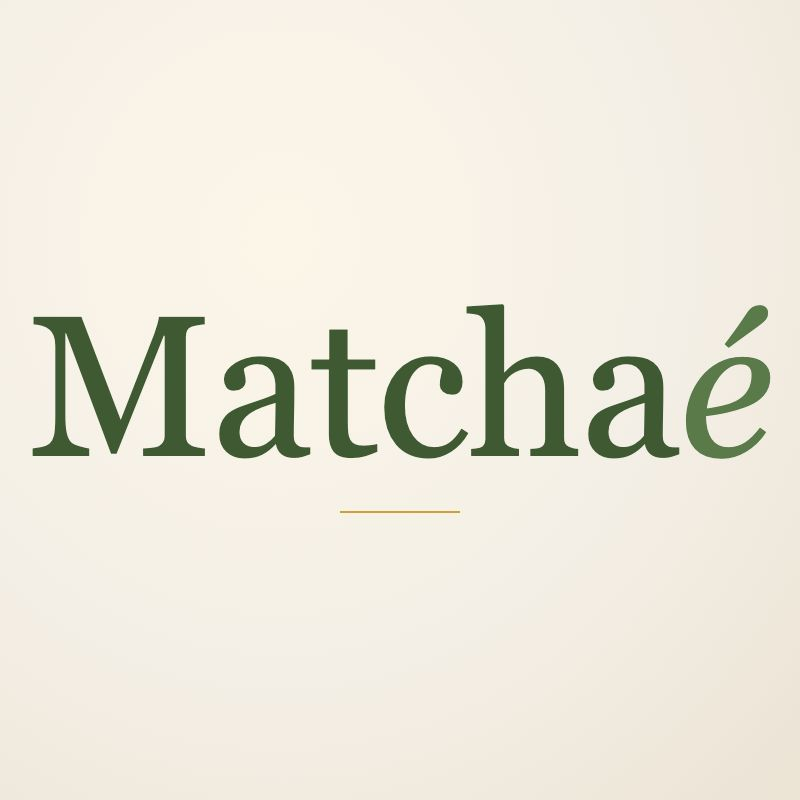
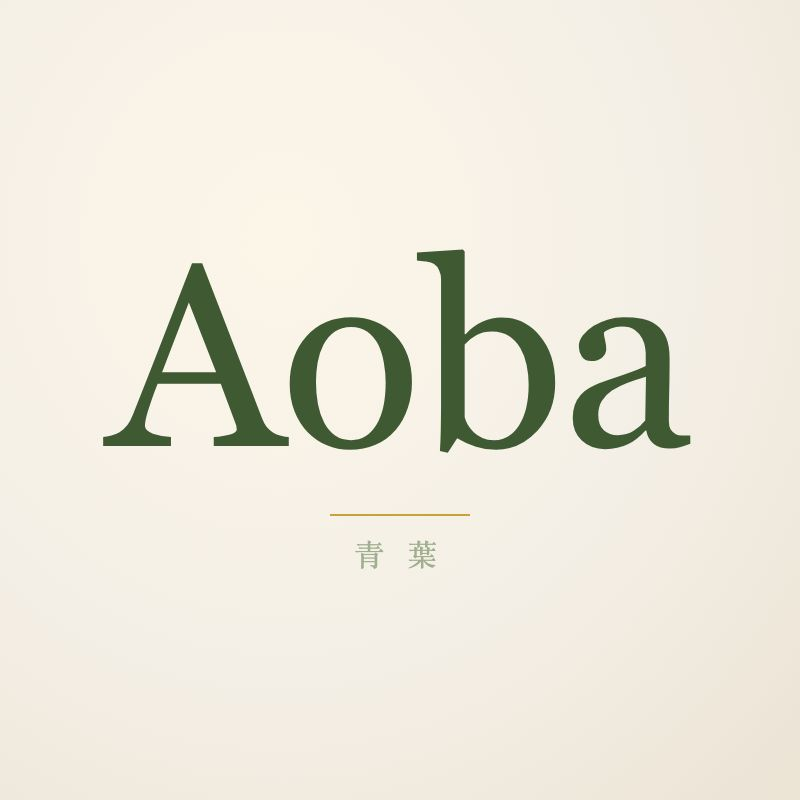
Rebrand Matchaé → Aoba (青葉, 'green leaf'): cleaner for Polish/German keyboards, Japanese authenticity fits matcha-spread positioning better than French elegance

Changed region(s): [[0.0312, 0.3125, 0.9688, 0.5938], [0.4062, 0.625, 0.5938, 0.7188]]

diff --git a/index.html b/index.html
@@ -3,9 +3,9 @@
 <head>
 <meta charset="utf-8">
 <meta name="viewport" content="width=device-width,initial-scale=1">
-<title>Matchaé — white chocolate, born from the leaf</title>
-<meta name="description" content="Matchaé is an organic matcha spread made with cocoa butter, raw honey, and ceremonial-grade Uji matcha. No palm oil. No refined sugar. No bitterness.">
-<meta property="og:title" content="Matchaé — white chocolate, born from the leaf">
+<title>Aoba — the green leaf, made spread</title>
+<meta name="description" content="Aoba is an organic matcha spread made with cocoa butter, raw honey, and ceremonial-grade Uji matcha. No palm oil. No refined sugar. No bitterness.">
+<meta property="og:title" content="Aoba — the green leaf, made spread">
 <meta property="og:description" content="An organic matcha spread that tastes like white chocolate. Cocoa butter, raw honey, ceremonial Uji matcha. No palm oil, no refined sugar, no bitterness.">
 <meta property="og:type" content="website">
 <meta property="og:image" content="img/hero-jar.jpg">
@@ -19,7 +19,7 @@
 <body>
 
 <header class="nav">
-  <a class="brand" href="/">Matcha<span class="accent">é</span></a>
+  <a class="brand" href="/">Aoba</a>
   <nav>
     <a href="#story">Story</a>
     <a href="#ingredients">Ingredients</a>
@@ -30,13 +30,13 @@
 <section class="hero">
   <div class="hero-text">
     <p class="eyebrow">— A spread, slowly made.</p>
-    <h1>White chocolate,<br><em>born from the leaf.</em></h1>
-    <p class="lede">Matchaé is an organic matcha spread of cocoa butter, raw honey, and ceremonial-grade Uji matcha. No palm oil. No refined sugar. No bitterness — only the soft green of the first harvest.</p>
+    <h1>The green leaf,<br><em>made spread.</em></h1>
+    <p class="lede">Aoba (青葉, "green leaf") is an organic matcha spread of cocoa butter, raw honey, and ceremonial-grade Uji matcha. No palm oil. No refined sugar. No bitterness — only the soft green of the first harvest.</p>
     <a class="cta" href="#notify">Notify me when it ships →</a>
     <p class="stockline">First batch — currently sold out.</p>
   </div>
   <div class="hero-image">
-    <img src="img/hero-jar.jpg" alt="An open jar of Matchaé matcha spread, soft green, on a cream cloth.">
+    <img src="img/hero-jar.jpg" alt="An open jar of Aoba matcha spread, soft green, on a cream cloth.">
   </div>
 </section>
 
@@ -44,7 +44,7 @@
   <div class="story-inner">
     <p class="eyebrow centered">— The idea</p>
     <h2>We wanted a spread that<br>tasted like the matcha we drink.</h2>
-    <p>Most green-coloured spreads on the shelf are white chocolate, palm oil, and a pinch of culinary matcha for the colour. We make ours the opposite way around: ceremonial-grade matcha first, then just enough cocoa butter and raw honey to carry it. No palm oil. No refined sugar. No additives.</p>
+    <p>Most green-coloured spreads on the shelf are white chocolate, palm oil, and a pinch of culinary matcha for the colour. We make ours the opposite way around: ceremonial-grade matcha first, then just enough cocoa butter and raw honey to carry it. No palm oil. No refined sugar. No additives. We called it Aoba — the Japanese word for the green leaf, because that's what each jar is built around.</p>
   </div>
 </section>
 
@@ -93,10 +93,10 @@
     <p class="notify-lede">We're keeping the first runs small on purpose — each jar is finished by hand in a small atelier. Leave your email and we'll write you the moment the next batch is ready. One email. No newsletter spam.</p>
 
     <form id="notify-form" action="https://formsubmit.co/[email redacted]" method="POST" class="notify-form">
-      <input type="hidden" name="_subject" value="Matchaé — new stock notification signup">
+      <input type="hidden" name="_subject" value="Aoba — new stock notification signup">
       <input type="hidden" name="_template" value="table">
       <input type="hidden" name="_captcha" value="false">
-      <input type="hidden" name="_next" value="https://www.cochoy.fr/matchae/thanks.html">
+      <input type="hidden" name="_next" value="https://www.cochoy.fr/aoba/thanks.html">
       <input type="hidden" name="source" value="landing">
       <label for="email" class="sr-only">Email address</label>
       <input id="email" name="email" type="email" required placeholder="[email redacted]" autocomplete="email">
@@ -109,14 +109,14 @@
 <footer>
   <div class="footer-inner">
     <div>
-      <p class="brand">Matcha<span class="accent">é</span></p>
-      <p class="tag">White chocolate, born from the leaf.</p>
+      <p class="brand">Aoba</p>
+      <p class="tag">The green leaf, made spread.</p>
     </div>
     <div class="links">
-      <a href="https://instagram.com/matchae.spread" rel="noopener" target="_blank">Instagram</a>
-      <a href="mailto:[email redacted]">[email redacted]</a>
+      <a href="https://instagram.com/aoba.spread" rel="noopener" target="_blank">Instagram</a>
+      <a href="mailto:[email redacted]">[email redacted]</a>
     </div>
-    <p class="copy">© 2026 Matchaé. Made with care, in small batches.</p>
+    <p class="copy">© 2026 Aoba. Made with care, in small batches.</p>
   </div>
 </footer>
 

diff --git a/scripts/profile.html b/scripts/profile.html
@@ -10,22 +10,30 @@
   .wordmark{
     font-family:'Cormorant Garamond',Georgia,serif;
     font-weight:500;
-    font-size:200px;
+    font-size:260px;
     color:#3F5A33;
     letter-spacing:-2px;
     line-height:1;
   }
-  .accent{color:#5A7A4A;font-style:italic;}
   .underline{
-    display:block;width:120px;height:2px;background:#C9A23B;margin:24px auto 0;
+    display:block;width:140px;height:2px;background:#C9A23B;margin:28px auto 0;
+  }
+  .kanji{
+    font-family:'Cormorant Garamond',Georgia,serif;
+    color:#5A7A4A;
+    font-size:30px;
+    margin-top:16px;
+    letter-spacing:8px;
+    opacity:.55;
   }
 </style>
 </head>
 <body>
 <div class="frame">
-  <div>
-    <div class="wordmark">Matcha<span class="accent">é</span></div>
+  <div style="text-align:center">
+    <div class="wordmark">Aoba</div>
     <span class="underline"></span>
+    <div class="kanji">青&nbsp;葉</div>
   </div>
 </div>
 </body></html>

diff --git a/thanks.html b/thanks.html
@@ -3,7 +3,7 @@
 <head>
 <meta charset="utf-8">
 <meta name="viewport" content="width=device-width,initial-scale=1">
-<title>Thank you — Matchaé</title>
+<title>Thank you — Aoba</title>
 <link rel="preconnect" href="https://fonts.googleapis.com">
 <link rel="preconnect" href="https://fonts.gstatic.com" crossorigin>
 <link rel="stylesheet" href="https://fonts.googleapis.com/css2?family=Cormorant+Garamond:wght@300;400;500&family=Inter:wght@300;400;500&display=swap">
@@ -13,7 +13,7 @@
 <body>
 
 <header class="nav">
-  <a class="brand" href="/">Matcha<span class="accent">é</span></a>
+  <a class="brand" href="/">Aoba</a>
   <nav>
     <a href="/">Home</a>
   </nav>
@@ -23,7 +23,7 @@
   <div class="notify-inner">
     <p class="eyebrow centered">— Thank you</p>
     <h2>You're on the list.</h2>
-    <p class="notify-lede">We'll write to you the moment the next batch is jarred and ready to ship. One email — that's the deal. In the meantime, come say hi on <a href="https://instagram.com/matchae.spread" style="color:var(--green-deep);font-style:italic;">Instagram</a>.</p>
+    <p class="notify-lede">We'll write to you the moment the next batch is jarred and ready to ship. One email — that's the deal. In the meantime, come say hi on <a href="https://instagram.com/aoba.spread" style="color:var(--green-deep);font-style:italic;">Instagram</a>.</p>
     <p style="margin-top:2.5rem"><a class="cta" href="/">Back to the leaf</a></p>
   </div>
 </section>
@@ -31,10 +31,10 @@
 <footer>
   <div class="footer-inner">
     <div>
-      <p class="brand">Matcha<span class="accent">é</span></p>
-      <p class="tag">White chocolate, born from the leaf.</p>
+      <p class="brand">Aoba</p>
+      <p class="tag">The green leaf, made spread.</p>
     </div>
-    <p class="copy">© 2026 Matchaé.</p>
+    <p class="copy">© 2026 Aoba.</p>
   </div>
 </footer>
 

diff --git a/style.css b/style.css
@@ -18,6 +18,7 @@ a{color:var(--ink);text-decoration:none}
 /* NAV */
 .nav{display:flex;justify-content:space-between;align-items:center;padding:1.5rem 2.5rem;position:sticky;top:0;background:var(--cream);z-index:10;border-bottom:1px solid rgba(0,0,0,.04)}
 .brand{font-family:var(--serif);font-weight:500;font-size:1.7rem;letter-spacing:.5px}
+.brand{color:var(--green-deep)}
 .brand .accent{color:var(--green);font-style:italic}
 .nav nav a{margin-left:1.8rem;font-size:.92rem;font-weight:400;color:var(--ink);opacity:.78}
 .nav nav a:hover{opacity:1;color:var(--green-deep)}

diff --git a/scripts/setup_ig_profile.py b/scripts/setup_ig_profile.py
@@ -1,8 +1,8 @@
 #!/opt/homebrew/opt/python@3.11/bin/python3.11
-"""Set the Matchaé Instagram profile bio, link, and avatar.
+"""Set the Aoba Instagram profile bio, link, and avatar.
 
 Run once after the Instagram account is created and you're logged in to the
-Matchaé Chrome (CDP port :9340).
+Aoba Chrome (CDP port :9340).
 
   ./scripts/setup_ig_profile.py
 """

diff --git a/content/captions-week2.md b/content/captions-week2.md
@@ -1,4 +1,4 @@
-# Matchaé — Instagram captions days 8–14
+# Aoba — Instagram captions days 8–14
 
 Same format as week 1, same theory rotation, same voice. Hashtags are 8–15 per post — one or two big-volume tags carrying the rest of mid-tail ones so we aren't drowning in over-competed pools.
 
@@ -9,7 +9,7 @@ Same format as week 1, same theory rotation, same voice. Hashtags are 8–15 per
 **Caption:**
 A pre-workout snack that isn't an ingredient label.
 
-Greek yogurt + a spoonful of Matchaé + a sliced banana.
+Greek yogurt + a spoonful of Aoba + a sliced banana.
 
 Real fat (cocoa butter). Real protein (yogurt). Real sugar (raw honey + banana). The matcha brings L-theanine, which pairs with caffeine the way a guitar pairs with a tuning peg — gives you focus without the jitter.
 
@@ -24,14 +24,14 @@ Link in bio — next batch dropping soon.
 ## Day 8 — Slot 2 (T-A) — `img/t-a-ingredients.jpg` (Reel — what's in it)
 
 **Caption (Reel):**
-What's in a jar of Matchaé:
+What's in a jar of Aoba:
 
 Cocoa butter (organic, unrefined).
 Raw wildflower honey (single-origin).
 Ceremonial Uji matcha (first harvest).
 Sea salt (a pinch).
 
-What's not in a jar of Matchaé:
+What's not in a jar of Aoba:
 Palm oil. Refined sugar. Milk powder. Sunflower oil. Soy lecithin. "Natural flavour." Emulsifiers. Stabilisers.
 
 That's the whole comparison.
@@ -58,7 +58,7 @@ Same Uji farm, same first-harvest stone-ground powder, same shaded leaves. The w
 **Caption:**
 Swirl, don't mix.
 
-Two spoons of Matchaé folded into vanilla cheesecake batter, marbled gently with a knife before baking. You want green ribbons through the slice, not a uniform green.
+Two spoons of Aoba folded into vanilla cheesecake batter, marbled gently with a knife before baking. You want green ribbons through the slice, not a uniform green.
 
 The matcha gives you the bitterness-without-bitterness. The honey gives you the sweetness-without-sugar. The cocoa butter gives you the melt.
 
@@ -73,7 +73,7 @@ Comment "swirl" if you want the full recipe in DMs.
 **Caption:**
 The after-school snack we keep coming back to:
 
-Two cracker halves. A thick layer of Matchaé in between. A few sliced strawberries on top of one half. A glass of cold whole milk.
+Two cracker halves. A thick layer of Aoba in between. A few sliced strawberries on top of one half. A glass of cold whole milk.
 
 Three ingredients on the plate that a kid can name. The fourth is the parent who didn't have to negotiate.
 
@@ -133,7 +133,7 @@ We use it the way it was grown to be used: gently, fully, and never as a coloura
 **Caption:**
 A dipping board for the weekend.
 
-Centre: jar of Matchaé. Around it: short-bread cookies, fresh strawberries, a small bowl of toasted hazelnuts, a few slices of brioche.
+Centre: jar of Aoba. Around it: short-bread cookies, fresh strawberries, a small bowl of toasted hazelnuts, a few slices of brioche.
 
 Each thing dipped in a different way: cookies for the satisfying crunch, strawberries for the cold against the spread, hazelnuts for the texture, brioche because it's basically butter and we live for a contrast.
 
@@ -150,7 +150,7 @@ A breakfast routine that took us a while to get right:
 
 - Toast the sourdough fully (not pale).
 - Wait 30 seconds — you want it warm, not hot, otherwise the spread goes runny.
-- A generous layer of Matchaé, not a polite one.
+- A generous layer of Aoba, not a polite one.
 - A small handful of berries if you've got them.
 
 Kids ask for seconds. Parents drink their coffee in peace. Nobody negotiates.
@@ -207,9 +207,9 @@ A small reminder that even matcha has seasons, and a jar tastes the way the year
 ## Day 14 — Slot 2 (T-E) — `img/t-e-croissant.jpg` (weekend round-up)
 
 **Caption:**
-The Matchaé weekend recipe round-up — saved for Sunday morning:
+The Aoba weekend recipe round-up — saved for Sunday morning:
 
-- Croissant + Matchaé fold (Day 2)
+- Croissant + Aoba fold (Day 2)
 - Brown-butter sablé sandwich (Day 4)
 - Vanilla cheesecake swirl (Day 7 + Day 9)
 - Sunday dipping board (Day 12)

diff --git a/NEXT_STEPS.md b/NEXT_STEPS.md
@@ -1,31 +1,31 @@
-# Matchaé — what's done, and what's left
+# Aoba — what's done, and what's left
 
 Everything that can be done autonomously is done. **Two short manual steps remain** — they only need a couple of clicks each because reCAPTCHA + an Instagram phone-or-not decision are gates that intentionally resist automation. Both should take under 5 minutes once you're at the keyboard.
 
 ## What's already live
 
-- **Brand & strategy** → [`STRATEGY.md`](STRATEGY.md): brand identity (Matchaé), 5 demographic theories (T-A … T-E), 14-day post calendar, voice, palette, measurement plan.
-- **Landing page** → live at **https://www.cochoy.fr/matchae/** (GitHub Pages, repo `jeremycochoy/matchae`). Out-of-stock notice + email capture → form posts to `formsubmit.co/[email redacted]`. First submission triggers a one-time "Activate" email from Formsubmit you need to click — see *Manual step 1*.
+- **Brand & strategy** → [`STRATEGY.md`](STRATEGY.md): brand identity (Aoba), 5 demographic theories (T-A … T-E), 14-day post calendar, voice, palette, measurement plan.
+- **Landing page** → live at **https://www.cochoy.fr/aoba/** (GitHub Pages, repo `jeremycochoy/aoba`). Out-of-stock notice + email capture → form posts to `formsubmit.co/[email redacted]`. First submission triggers a one-time "Activate" email from Formsubmit you need to click — see *Manual step 1*.
 - **Image library** → `img/` populated by `scripts/gen_images.sh` (Pollinations.ai, no API key needed). One hero per theory + IG grid squares + a profile photo. Re-run any time to refresh.
 - **Captions** → `content/captions.md` has the first week of captions, one per slot, tagged with their theory so we can attribute engagement.
-- **Instagram signup form pre-filled** → in the Matchaé Chrome (CDP port :9340), the signup page is loaded and the email / password / DOB / name / handle (`matchae.spread`, confirmed available) are already in. See *Manual step 2*.
+- **Instagram signup form pre-filled** → in the Aoba Chrome (CDP port :9340), the signup page is loaded and the email / password / DOB / name / handle (`aoba.spread`, confirmed available) are already in. See *Manual step 2*.
 
 ## Manual step 1 — activate Formsubmit (≤ 1 min)
 
 The very first time someone submits the notify form, Formsubmit emails `[email redacted]` with a "Click to activate" link. Until that's clicked, no signups go through.
 
-1. Open the Matchaé site in any browser: https://www.cochoy.fr/matchae/
+1. Open the Aoba site in any browser: https://www.cochoy.fr/aoba/
 2. Drop your own email in and submit (you'll be redirected to `thanks.html` — that's expected).
-3. In Gmail, find the "Activate Formsubmit" email, click the activation link. Done — all future submissions land in your inbox with subject `Matchaé — new stock notification signup`.
+3. In Gmail, find the "Activate Formsubmit" email, click the activation link. Done — all future submissions land in your inbox with subject `Aoba — new stock notification signup`.
 
 ## Manual step 2 — finish Instagram signup (≤ 3 min)
 
-The Matchaé Chrome on `:9340` is sitting on the IG signup page with the form filled and the reCAPTCHA "I'm not a robot" gate showing. reCAPTCHA Enterprise resists automation by design.
+The Aoba Chrome on `:9340` is sitting on the IG signup page with the form filled and the reCAPTCHA "I'm not a robot" gate showing. reCAPTCHA Enterprise resists automation by design.
 
-1. Bring the Matchaé Chrome window to the front (the one that says "Aidez-nous à confirmer que c'est bien vous").
+1. Bring the Aoba Chrome window to the front (the one that says "Aidez-nous à confirmer que c'est bien vous").
 2. Click the **"Je ne suis pas un robot"** checkbox. If it asks you to pick traffic lights, do that.
 3. Click **Suivant**.
-4. Instagram will email a 6-digit code to `[email redacted]`. Open Gmail, paste the code in the IG page, click confirm.
+4. Instagram will email a 6-digit code to `[email redacted]`. Open Gmail, paste the code in the IG page, click confirm.
 5. If IG asks for a phone for verification, skip if "Skip" is offered. If not, use any number you don't mind associating with this brand — IG occasionally re-asks.
 6. Once you're on the main IG feed, open `.secrets/credentials.txt` for the password and bookmark it.
 

diff --git a/content/captions.md b/content/captions.md
@@ -1,4 +1,4 @@
-# Matchaé — Instagram captions for the first 14 days
+# Aoba — Instagram captions for the first 14 days
 
 Each entry has: post slot, theory tag (per STRATEGY.md), image to use, caption, hashtags, CTA. Hashtags sit at the bottom of the caption (Instagram convention) — 8–15 max, mixing one or two big-volume tags with several mid-tail ones so we're not drowning in over-competed pools.
 
@@ -15,7 +15,7 @@ Ceremonial Uji matcha. Organic cocoa butter. Raw wildflower honey. A pinch of se
 
 That's the whole jar. No palm oil. No refined sugar. No vegetable shortenings hiding behind "natural flavour."
 
-We started Matchaé because the green spreads on the shelf were mostly white chocolate with a wave at matcha. We wanted the opposite — matcha first, sweetness second, everything else nowhere.
+We started Aoba because the green spreads on the shelf were mostly white chocolate with a wave at matcha. We wanted the opposite — matcha first, sweetness second, everything else nowhere.
 
 First batch is out — link in bio for the next one.
 
@@ -39,7 +39,7 @@ A spread is only as good as the ingredient it leads with. We led with this one.
 ## Day 2 — Slot 1 (T-E) — `img/t-e-croissant.jpg`
 
 **Caption:**
-Croissant. Warm. Sliced. Half a spoonful of Matchaé in the fold.
+Croissant. Warm. Sliced. Half a spoonful of Aoba in the fold.
 
 The butter does its thing on one side, the cocoa butter does its thing on the other, and somewhere in the middle the honey and the matcha meet. We're still working out if that's a recipe or a religious experience.
 
@@ -63,7 +63,7 @@ Yes.
 "Can I have more?"
 …we'll think about it.
 
-Matchaé is sweetened only with raw honey. The green is matcha, not food dye. The fat is cocoa butter, not palm oil. The "yes I'll have seconds" energy is theirs.
+Aoba is sweetened only with raw honey. The green is matcha, not food dye. The fat is cocoa butter, not palm oil. The "yes I'll have seconds" energy is theirs.
 
 A jar lasts about a week in a house with kids. We've timed it.
 
@@ -76,7 +76,7 @@ Link in bio when the next batch ships.
 ## Day 3 — Slot 1 (T-D) — `img/t-d-yogurt.jpg`
 
 **Caption:**
-Greek yogurt + a spoon of Matchaé.
+Greek yogurt + a spoon of Aoba.
 
 No protein powder, no maple syrup, no "natural flavourings."
 
@@ -126,7 +126,7 @@ We've spent a year on the rest of the recipe with the same patience. The cocoa b
 ## Day 4 — Slot 2 (T-E) — `img/t-e-cookie.jpg`
 
 **Caption:**
-Matcha sandwich cookie, with a generous layer of Matchaé in the middle.
+Matcha sandwich cookie, with a generous layer of Aoba in the middle.
 
 The cookie part is a brown-butter sablé. The middle part is doing all the talking.
 
@@ -143,7 +143,7 @@ Link in bio — next batch on the way.
 **Caption:**
 Lunchbox audit.
 
-Sliced brioche, Matchaé, strawberries, a small handful of blueberries. The brioche is yesterday's. The spread is the green hero. The fruit is the supporting cast.
+Sliced brioche, Aoba, strawberries, a small handful of blueberries. The brioche is yesterday's. The spread is the green hero. The fruit is the supporting cast.
 
 Three ingredients across the whole box — none of which are hidden seed oils, food dye, or "natural flavour" doing the heavy lifting.
 
@@ -202,7 +202,7 @@ A spread inherits the ingredient at its centre. So we built the recipe around th
 ## Day 7 — Slot 1 (T-E) — `img/t-e-swirl.jpg`
 
 **Caption:**
-Two spoons of Matchaé folded into vanilla cheesecake batter, swirled (not mixed) before it bakes.
+Two spoons of Aoba folded into vanilla cheesecake batter, swirled (not mixed) before it bakes.
 
 You get a green ribbon through every slice, a hit of matcha that comes and goes, and a sweetness that's coming from honey, not sugar.
 

diff --git a/STRATEGY.md b/STRATEGY.md
@@ -1,8 +1,8 @@
-# Matchaé — Marketing Strategy
+# Aoba — Marketing Strategy
 
 ## Product
 
-**Matchaé** — an organic matcha spread that tastes like white chocolate dipped in ceremonial-grade matcha. Cocoa butter base, raw honey sweetening, ceremonial Uji matcha, **zero palm oil**, **zero refined sugar**, **zero bitterness**. Spreadable, soft, naturally green.
+**Aoba** — an organic matcha spread that tastes like white chocolate dipped in ceremonial-grade matcha. Cocoa butter base, raw honey sweetening, ceremonial Uji matcha, **zero palm oil**, **zero refined sugar**, **zero bitterness**. Spreadable, soft, naturally green.
 
 Positioning line: *White chocolate, born from the leaf.*
 
@@ -82,7 +82,7 @@ Two posts/day. Each tagged by theory. The mix is intentionally even (≈3 per th
 | 13 | T-D wellness creator collab pitch | T-A "we're out of stock" honest update |
 | 14 | T-B last harvest news | T-E weekend recipe round-up |
 
-Every post links to **matchae.shop** (or the github.io URL) which says **OUT OF STOCK** + email capture, framed as "Get notified the moment the first batch ships — we're keeping the first run small on purpose." Scarcity is honest here; we're genuinely pre-launch.
+Every post links to **aoba.shop** (or the GitHub Pages URL while the domain is pending) which says **OUT OF STOCK** + email capture, framed as "Get notified the moment the first batch ships — we're keeping the first run small on purpose." Scarcity is honest here; we're genuinely pre-launch.
 
 ## Measurement
 
@@ -101,7 +101,7 @@ After 14 days the two theories with the highest **email-signup-per-reach** ratio
 
 ## Brand visual
 
-- Logo wordmark: "Matchaé" in a thin modern serif, the é accent in matcha-green.
+- Logo wordmark: "Aoba" in a thin modern serif, the é accent in matcha-green.
 - Primary green: `#5A7A4A` (muted, like aged matcha leaf).
 - Cream / off-white: `#F4EFE6`.
 - Cocoa accent: `#3D2B1F`.